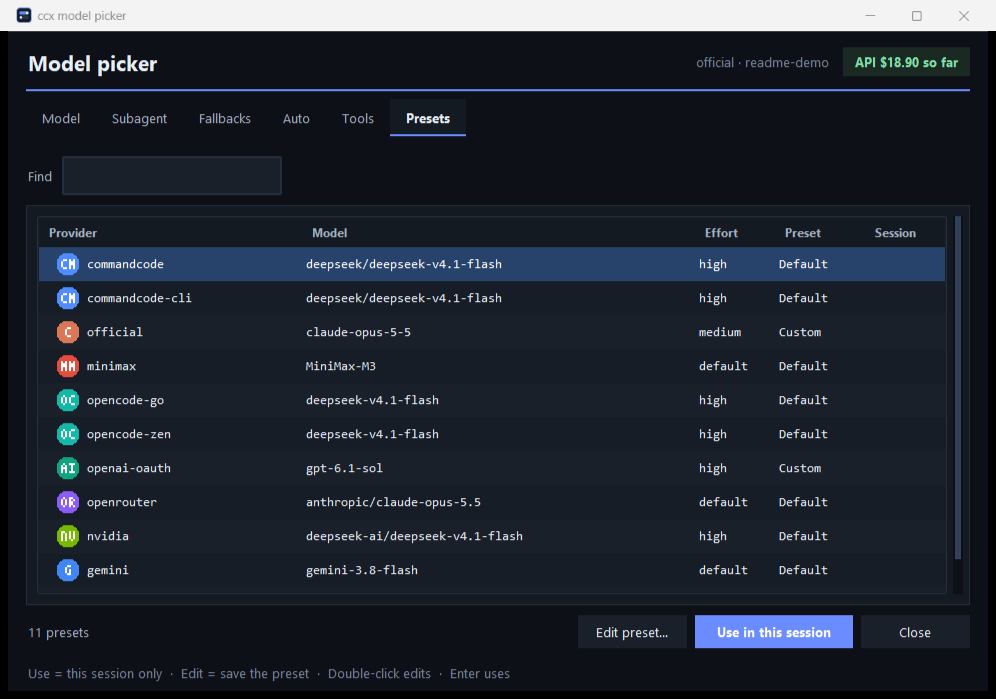
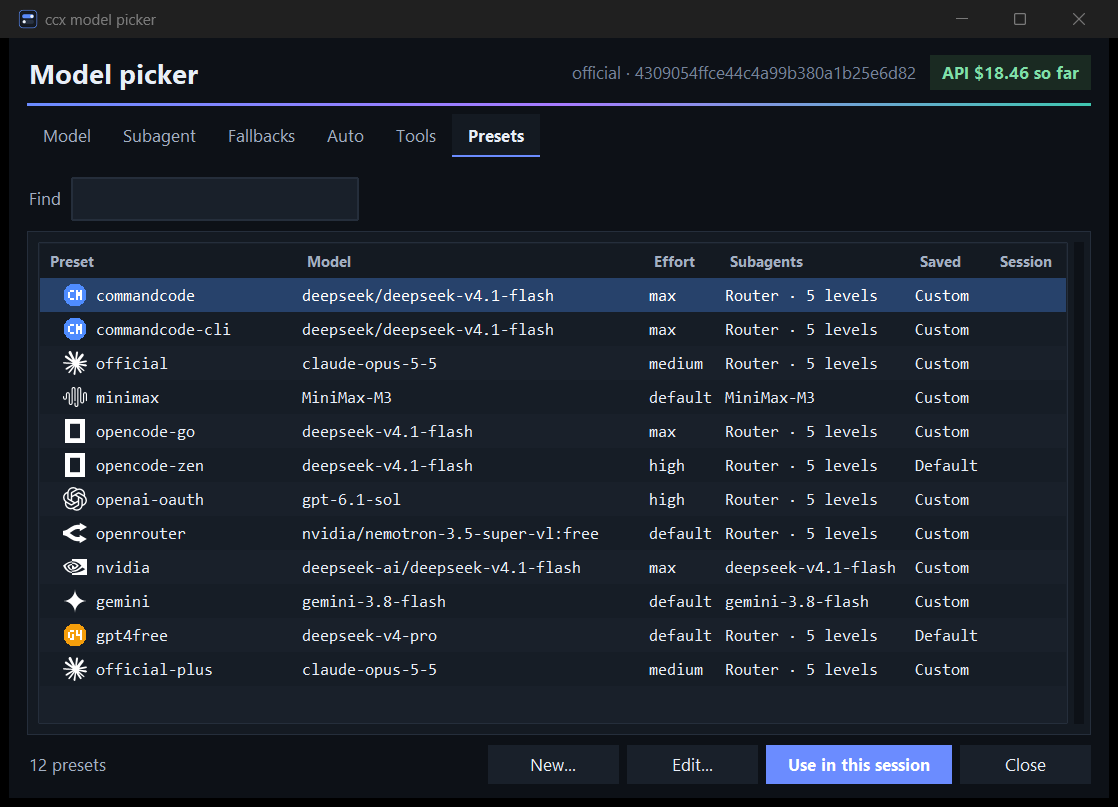
README: router screenshot, five-level status line, auto-mode note; wider price and subagent columns

diff --git a/ccx-gui.py b/ccx-gui.py
@@ -879,7 +879,7 @@ class PickerTab(ttk.Frame):
                                  height=6)
         self.list.heading('#0', text='Model', anchor='w')
         self.list.column('#0', width=360, stretch=True, anchor='w')
-        for column, title, width in (('context', 'Context', 80), ('price', 'Price $/M', 110),
+        for column, title, width in (('context', 'Context', 80), ('price', 'Price $/M', 132),
                                      ('intelligence', 'AA', 76), ('score', 'Score', 60),
                                      ('session', 'This session', 110)):
             self.list.heading(column, text=title, anchor='e')
@@ -1419,7 +1419,7 @@ class PresetsTab(ttk.Frame):
                                  height=6)
         self.list.heading('#0', text='Preset', anchor='w')
         self.list.column('#0', width=170, minwidth=100, stretch=True, anchor='w')
-        for column, title, width in [('model', 'Model', 260), ('effort', 'Effort', 76), ('subagent', 'Subagents', 160),
+        for column, title, width in [('model', 'Model', 260), ('effort', 'Effort', 76), ('subagent', 'Subagents', 190),
                                      ('source', 'Saved', 80), ('state', 'Session', 76)]:
             self.list.heading(column, text=title, anchor='w')
             self.list.column(column, width=width, minwidth=65, stretch=column == 'model', anchor='w')

diff --git a/README.md b/README.md
@@ -97,7 +97,8 @@ directly.
 
 The first line shows the model, its effort dots (one per step of that model's own ladder), context
 use with the auto-compact point, and quota windows with time to reset. The second line shows the
-Auto and Tools helper models. The `sub:` line shows each configured subagent's route. The last line
+Auto and Tools helper models. Below come the subagent rows: one per router level, with its score range,
+model, effort dots and compact window, then its context, cache share and cost once it has run. The last line
 is the session's API-price cost, then the week's spend against the plan's equivalent quota. Quotas
 come from the provider's usage endpoint or from the adapter's last rate-limit headers. A failed fetch
 names its cause (`key expired`, `auth failed`) instead of hiding the bar.
@@ -143,8 +144,15 @@ Artificial Analysis score (very easy 50%, easy 65%, mid 80%, hard 90%; very hard
 each reasoning effort separately; `ccx facts <provider>` lists them as `aa_efforts`, and the `/model` window's
 AA column follows its Effort box. Higher efforts count as dearer (an estimate: AA prices tokens, not efforts).
 
+![Subagent tab with the router's difficulty bar](docs/picker-router.png)
+
 In `/model`'s Subagent tab the Difficulty bar shows each level's range, model, effort and compact window in its colour: drag a
-boundary to move a range, click a level to pick its model, effort and Compact (Apply keeps the model when only those change). Preset levels store a compact window each; none means inherit.
+boundary to move a range, click a level to pick its model, effort and Compact (Apply keeps the model when only those change). Preset levels store a compact window each; none means inherit. Presets start
+with the router on; **Best picks** fills the levels from `best`.
+
+In auto mode Claude Code refuses an Agent call that a hook rewrote, so there the hint asks the main model to
+name the level's in-process worker (`ccx-easy-live`) directly; a call ccx still has to remap is denied once
+with the exact call to resubmit.
 
 Each routed call's score lands in `~/.config/ccx/router-log.jsonl`. `calibrate` needs 20 scores and uses the
 last 500.
